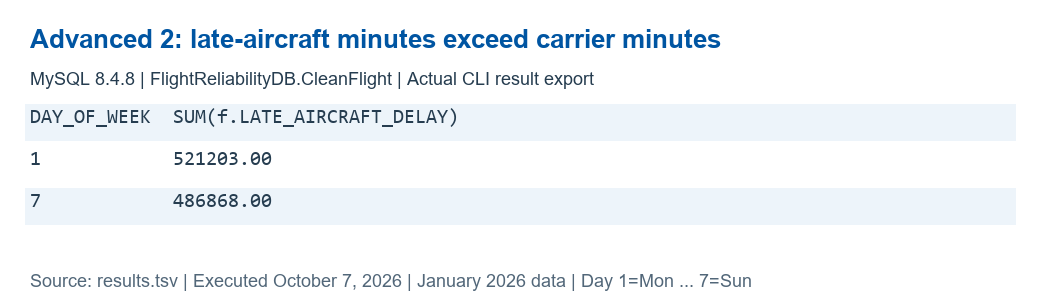
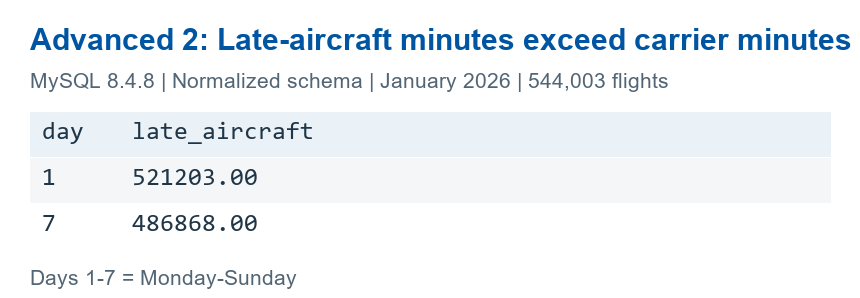
fix(sql): use normalized tables and route setup

diff --git a/README.md b/README.md
@@ -7,40 +7,74 @@ This project analyzes delays, cancellations, diversions, and operational pattern
 ## Dataset
 
 - **Source:** [BTS Reporting Carrier On-Time Performance](https://transtats.bts.gov/DL_SelectFields.aspx?gnoyr_VQ=FGJ)
-- **Initial period:** January 2026
+- **Period:** January 1-31, 2026
 - **Downloaded subset:** 544,003 flight records with 36 selected fields
-- **Sample data:** A random sample of 1,000 records is available in [`data/samples/flights_sample_1000.csv`](data/samples/flights_sample_1000.csv)
-- **Repository policy:** The full raw dataset is kept out of Git because of its size. Use `data/samples/` for small shareable examples; keep downloaded and generated data in the ignored raw/processed locations.
-- **Field reference:** [Data Dictionary](docs/Data_Dictionary.md)
+- **Sample:** [1,000 flight records](data/samples/flights_sample_1000.csv) for development, not full-month findings
+- **Fields:** [Data Dictionary](docs/Data_Dictionary.md)
+- **Shared data:** The repository already includes the source ZIP, cleaned ZIP, and normalized CSV bundles. New local downloads and processed outputs remain ignored under `data/raw/` and `data/processed/`; existing tracked files remain shared. Keep credentials and local database files out of Git.
+
+## MySQL Setup
+
+Use MySQL 8 and the `FlightReliabilityDB` database. MySQL Workbench is an optional client; it does not replace the database server.
+
+### Build from source records
+
+1. Run [01_create_rawflight.sql](data/samples/01_create_rawflight.sql) to create the database and the 36-column `RawFlight` staging table.
+2. Extract the [source ZIP](data/raw/T_ONTIME_REPORTING_20261002_193237.zip). Import `T_ONTIME_REPORTING.csv` into `RawFlight`, mapping the header names to the existing columns. `Term.csv` and `Documentation.csv` contain metadata, not flight records. Use the [sample CSV](data/samples/flights_sample_1000.csv) only for a small development database.
+3. Run [02_data_quality_checks.sql](data/samples/02_data_quality_checks.sql) to inspect the import.
+4. Run [03_clean_flight_data.sql](data/processed/03_clean_flight_data.sql) to populate the typed `CleanFlight` staging table.
+5. Run [04_create_normalized_schema.sql](data/normalized/04_create_normalized_schema.sql) to create and populate `Airline`, `Airport`, `CalendarDate`, `Route`, and `Flight` from `CleanFlight`. The script also reports table counts and joined sample records.
+
+These setup scripts drop and recreate their target tables. Run them when building a development database, not before every analysis query. If the normalized tables are already loaded, go directly to the analysis scripts below.
+
+### Expected full-month counts
+
+| Table | Rows |
+|---|---:|
+| Airline | 13 |
+| Airport | 342 |
+| CalendarDate | 31 |
+| Route | 5,812 |
+| Flight | 544,003 |
+
+The sample database will have smaller counts. See the [ER diagram](data/normalized/Normalized_EER_diagram.png), [normalization notes](data/normalized/Normalization.md), and [validation evidence](data/normalized/normalized_validation.png).
+
+## Analysis Scripts
+
+Each member retains two basic and two advanced queries in the repository. The presentation selects one query per member.
+
+| Area | SQL to use | Results and notes |
+|---|---|---|
+| Arin: delay causes and weekdays | [Normalized queries](queries/delay_causes_day_of_week/Arin_Delay_Causes_Day_Of_Week.sql) | [Verified results and PNGs](queries/delay_causes_day_of_week/README.md) |
+| Audrey: airline delay and on-time performance | [Full normalized dataset queries](queries/airline_delay_on_time_performance/Normalized%20full%20dataset%20outputs/airline_delay_queries.sql) | [Full dataset outputs](queries/airline_delay_on_time_performance/Normalized%20full%20dataset%20outputs/) |
+| Yanyu: cancellations and diversions | [Normalized queries](queries/cancellation_diversion/Cancellation_diversion_analysis.sql) | [Results and notes](queries/cancellation_diversion/README.md) |
+| Bao: airports and routes | [Airport and route queries](queries/airport_and_route_performance/Airport_n_Route_Performance.sql) | [Query outputs](queries/airport_and_route_performance/) |
+
+`CleanFlight` and `RawFlight` are staging tables. In the normalized schema, weekday information is in `CalendarDate`, carrier codes are in `Airline`, and airport codes are in `Airport` through `Route`. Join only the tables needed for the research question.
+
+The earlier `delay_dayofweek_analysis.sql` files at the root and directly under `queries/` are retained development drafts. Use Arin's linked four-query script for the current weekday analysis. Root-level airline SQL copies are also earlier drafts; use the full normalized dataset script linked above.
 
 ## Repository Map
 
-| Location | Put here |
+| Location | Contents |
 |---|---|
-| `data/raw/` | Downloaded source files; local and ignored by Git |
-| `data/processed/` | Cleaned or transformed datasets; local and ignored by Git |
-| `data/samples/` | Small examples suitable for sharing and testing |
-| `database/` | MySQL schema and database implementation materials |
-| `database/erd/` | ERD and database design diagrams |
-| `queries/` | The team MySQL analysis queries |
-| `scripts/` | Data import, cleaning, or validation scripts |
-| `report/` | Written analysis and report materials |
-| `report/figures/` | Figures used in the report |
-| `docs/` | Dataset documentation, project planning notes, and requirements references |
+| `data/raw/` | Source dataset ZIP and local downloads |
+| `data/processed/` | Cleaned data and staging-table cleaning script |
+| `data/normalized/` | Normalized schema SQL, table CSVs, ER diagram, and validation evidence |
+| `data/samples/` | Small development sample and staging-table setup/check scripts |
+| `queries/` | Member analysis scripts, outputs, and interpretations |
+| `database/erd/` | Reserved for additional database design diagrams |
+| `scripts/` | Import or validation utilities |
+| `docs/` | Data dictionary and team planning |
+| `report/` | Written analysis and report figures |
 
-The local `archive/local_exploration/` directory contains exploratory reference work and is ignored by Git. It is not part of the shared project deliverables.
+`archive/local_exploration/` is ignored local reference work and is not part of the shared deliverables.
 
-## Work Tracking
+## Work Tracking and Presentation
 
-Use the GitHub Project board as the live Kanban tracker for assignments and progress. [Team Tasks](docs/Team_tasks.md) is a planning reference; keep task status current on the board.
+Use the [GitHub Project board](https://github.com/users/aringadre76/projects/2) as the live Kanban tracker. [Team Tasks](docs/Team_tasks.md) records analysis areas and midterm requirements.
 
-## Research Questions
-
-- Which airlines have the highest average delays?
-- Which airports and routes experience the most delays?
-- How do delays vary by time of day and day of week?
-- What are the major causes of flight delays?
-- Which airlines and airports have the highest cancellation rates?
+The [midterm presentation](https://docs.google.com/presentation/d/1MckoCKnu-uFCegQ1mkwLg-TU8M8-AYmbMmK-LxDQj_w/edit) covers the dataset, schema, normalization, MySQL import, selected SQL results, challenges, and contributions. The full four-query sets remain in this repository for instructor review.
 
 ## Team Members
 

diff --git a/docs/Team_tasks.md b/docs/Team_tasks.md
@@ -12,11 +12,22 @@ The project examines the reliability of domestic flights in the United States. T
 | Main Area | Deliverables | Status |
 |---|---|---|
 | Dataset preparation and documentation | Dataset description, data dictionary, data cleaning, sample data, and GitHub documentation | In progress |
-| Database design | Functional dependencies, normalization to 3NF, relational schema, and ER/EER diagram | In progress |
-| Database implementation | MySQL tables, primary and foreign keys, data import, testing, and row-count evidence | In progress |
-| SQL analysis and presentation | Coordinate SQL queries, interpret query results, document challenges and next steps, and organize presentation slides | Presentation started; SQL pending |
+| Database design | Functional dependencies, normalization to 3NF, relational schema, and ER/EER diagram | Schema and ER diagram published; written dependency review remains |
+| Database implementation | MySQL tables, primary and foreign keys, data import, testing, and row-count evidence | Five normalized tables loaded; full-month row-count evidence published |
+| SQL analysis and presentation | Coordinate SQL queries, interpret query results, document challenges and next steps, and organize presentation slides | Query sets and slides available; Arin normalized results verified October 8 |
 
 All members will also create their own SQL queries, contribute work through GitHub, review the database design, and participate in the presentation.
+
+## Mid-presentation Requirements and Query Count
+
+- **Presentation:** 10 minutes maximum; the instructor will stop the presentation at 10 minutes, followed by 3 minutes of Q&A. Submit the presentation file and the project repository link.
+- **Query work:** Each member must develop at least 2 basic and 2 advanced SQL queries. With four members, that is at least 16 queries in the project code overall, not 4 queries for the whole team.
+- **Queries shown:** The rubric says the team does not need to present every query and should select the most useful ones. The class Discord clarification was one query per member, so our four-person team should plan to show 4 queries total, one selected query from each member. Keep each member's full set of 4 queries and results in the repository for instructor verification.
+- **Query evidence:** Show the selected query code and its actual results, then briefly explain the insight. Use a range of SQL techniques covered in class, such as joins, aggregation, subqueries, CTEs, or window functions.
+- **Dataset and motivation:** Explain the dataset source, size, feature count, project relevance, complexity, and cleaning or preprocessing needs.
+- **Schema and MySQL:** Show the initial ER/EER diagram and relational mapping; explain primary keys, foreign keys, relationships, and normalization through at least 3NF. Include evidence that data was imported into MySQL, such as row counts and sample queries. The provided midterm wording requires schema and normalization evidence plus a successful MySQL import; it does not explicitly say that the final normalized schema must already be fully loaded or that separate foreign-key validation results must be presented. Describe the implementation status accurately.
+- **Challenges and next steps:** Discuss issues encountered and planned improvements, such as cleaning, schema mapping, performance, indexes, advanced queries, or visualizations.
+- **Contribution evidence:** The last slide must show each member's contribution, for example through GitHub commit history.
 
 ## Project Workflow
 

diff --git a/data/normalized/Normalization.md b/data/normalized/Normalization.md
@@ -16,13 +16,13 @@ The current design includes the following dependencies:
 
 - **1NF:** The cleaned data contains atomic values and no repeating groups.
 - **2NF:** `FlightID` is a single-column primary key, so there are no partial dependencies.
-- **3NF:** Airline, airport, date, and route information should be separated because they depend on their own identifiers rather than directly on `FlightID`.
+- **3NF:** Airline, airport, date, and route information is stored in separate tables using their own identifiers.
 
-## Proposed 3NF Tables
+## Implemented Tables
 
 - `Airline(AirlineID PK, CarrierCode)`
 - `Airport(AirportID PK, AirportCode)`
-- `FlightDate(FlightDate PK, DayOfWeek)`
+- `CalendarDate(FlightDate PK, DayOfWeek)`
 - `Route(RouteID PK, OriginAirportID FK, DestinationAirportID FK, Distance)`
 - `Flight(FlightID PK, FlightDate FK, AirlineID FK, RouteID FK, flight number, tail number, times, delays, cancellation, and diversion information)`
 
@@ -31,12 +31,16 @@ The current design includes the following dependencies:
 
 - [ ] Review and confirm the functional dependencies.
 - [ ] Complete the written 1NF → 2NF → 3NF explanation.
-- [ ] Create the final relational schema.
-- [ ] Create an ER/EER diagram showing the tables and relationships.
-- [ ] Create `04_create_normalized_schema.sql`.
-- [ ] Add all primary keys, foreign keys, and unique constraints.
-- [ ] Insert data into the normalized tables from `CleanFlight`.
-- [ ] Verify the row counts and relationships.
-- [ ] Upload the SQL file, diagram, and validation evidence to GitHub.
+- [x] Create the relational schema.
+- [x] Create an ER/EER diagram showing the tables and relationships.
+- [x] Create `04_create_normalized_schema.sql`.
+- [x] Add primary keys, foreign keys, and unique constraints.
+- [x] Insert data into the normalized tables from `CleanFlight`.
+- [x] Verify table counts and the Flight-to-CalendarDate relationship on the full dataset.
+- [x] Upload the SQL file, diagram, and validation evidence to GitHub.
 
 The sample data may be used while developing and testing the schema. The final version should also be tested against the complete cleaned dataset.
+
+## Implementation Evidence
+
+[Schema and load script](04_create_normalized_schema.sql), [ER diagram](Normalized_EER_diagram.png), and [table-count evidence](normalized_validation.png). Full-month counts are Airline 13, Airport 342, CalendarDate 31, Route 5,812, and Flight 544,003. Arin's October 8 MySQL validation confirmed 544,003 unique flight IDs, 544,003 rows after joining CalendarDate, and unchanged values for all fields used by his four queries.

diff --git a/queries/delay_causes_day_of_week/README.md b/queries/delay_causes_day_of_week/README.md
@@ -2,7 +2,9 @@
 
 - [SQL](Arin_Delay_Causes_Day_Of_Week.sql): two basic aggregates and two advanced subqueries.
 - [Results](results.tsv): actual MySQL output; PNG exports show each result set.
+- Run: MySQL 8.4.8, `FlightReliabilityDB.Flight` and `CalendarDate`; full January 2026 dataset.
+- Weekday queries join `Flight` to `CalendarDate` on `FlightDate`. The overall cause-total query only needs `Flight`.
 - Scope: DATA 201 Lectures 5-7. Advanced 1 uses HAVING with a scalar subquery; Advanced 2 uses a correlated scalar subquery. No CTEs or window functions.
-- Run: MySQL 8, FlightReliabilityDB.CleanFlight; January 2026 data.
-- Findings: Sunday, Monday and Saturday exceed the overall mean. Carrier and late-aircraft delays have the largest overall reported totals; late-aircraft totals exceed carrier totals on Monday and Sunday.
-- Means are displayed to two decimals on slides. Cleaned flat-table execution does not verify final normalized-schema import.
+- Verified October 8, 2026: 544,003 normalized flights, 544,003 unique FlightIDs, and 544,003 rows after the calendar join. All query input fields match the cleaned staging table, and all four query outputs exactly match the earlier staging results.
+- Findings: Sunday, Monday and Saturday exceed the overall mean of 6.410360 minutes. Carrier and late-aircraft delays have the largest overall reported totals; late-aircraft totals exceed carrier totals on Monday and Sunday.
+- Days 1-7 mean Monday-Sunday. Means are displayed to two decimals on slides. Arrival delay includes early arrivals as negative values. Cause totals are reported minutes, not proof of why weekday differences occurred.
